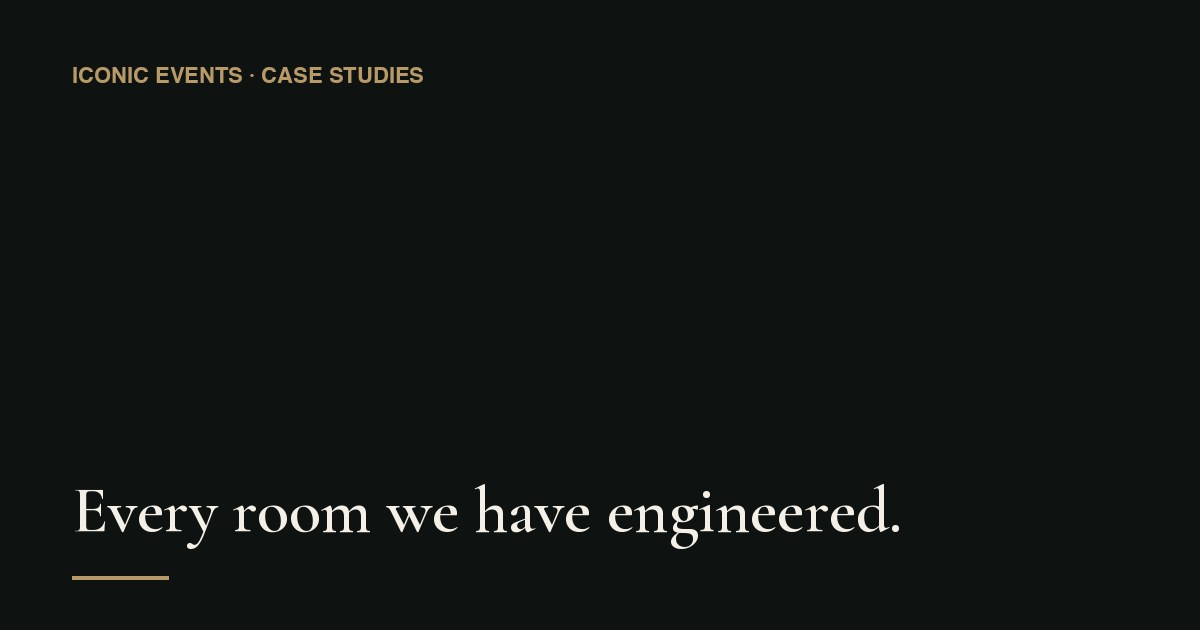
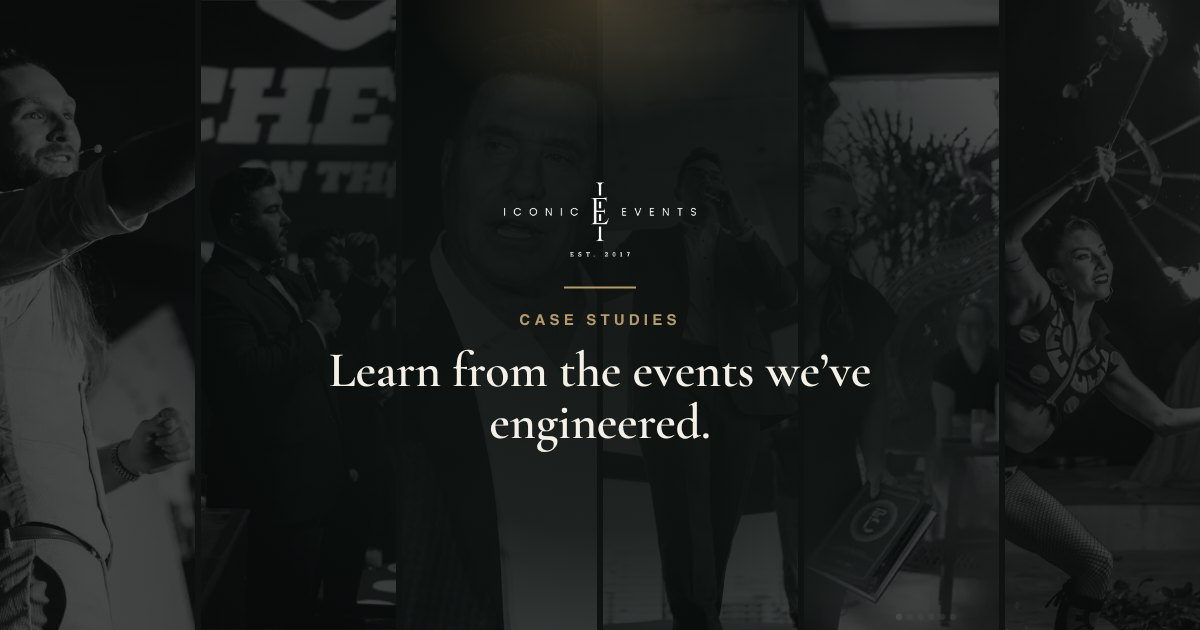
Redraw the share cards and stop linking to missing ones
- og/default.jpg and og/case-studies.jpg redrawn by a new script,
  scripts/make-og-cards.mjs: case study photography behind the white
  wordmark and a centred line, all inside the middle 640px so the square
  crop WhatsApp and iMessage apply still shows the whole card. The home
  card carries the copy guide's fixed line; the case studies card gets the
  current headline instead of the old one.
- The og:image URL carries a short hash of the file, so apps that cache
  previews by URL fetch a redrawn card.
- Twelve case studies pointed at og/<slug>.jpg files that do not exist,
  so their links shared with a broken image. They now fall back to the
  default card until they get their own.

Claude-Session: https://claude.ai/code/session_01R5feTyjTQVWD53qFHYxuBa

diff --git a/prerender.js b/prerender.js
@@ -6,6 +6,7 @@
 // without touching this file.
 import fs from 'node:fs'
 import path from 'node:path'
+import { createHash } from 'node:crypto'
 import { render, preloadRoute } from './dist-ssr/entry-server.js'
 import { CASE_STUDIES } from './src/case-studies.js'
 import { PRIVACY, TERMS } from './src/legal.js'
@@ -98,9 +99,19 @@ const escape = (value) =>
 
 // Without these, a link shared to Slack, WhatsApp or LinkedIn renders as a
 // bare URL: no image, no title, no description.
+// The card URL carries a short hash of the file. WhatsApp and Slack cache a
+// preview by image URL, so a redrawn card would otherwise keep showing the
+// old one; a new hash makes them fetch it again.
+const cardVersion = (rel) =>
+  createHash('sha1').update(fs.readFileSync(`public${rel}`)).digest('hex').slice(0, 8)
+
 function socialTags(route) {
   const url = `${SITE}${route.path}`
-  const image = `${SITE}${route.image ?? '/og/default.jpg'}`
+  // A case study without its own card yet shares the default rather than a
+  // link to a file that does not exist.
+  const wanted = route.image ?? '/og/default.jpg'
+  const rel = fs.existsSync(`public${wanted}`) ? wanted : '/og/default.jpg'
+  const image = `${SITE}${rel}?v=${cardVersion(rel)}`
   return [
     `<meta property="og:type" content="website" />`,
     `<meta property="og:site_name" content="Iconic Events" />`,
